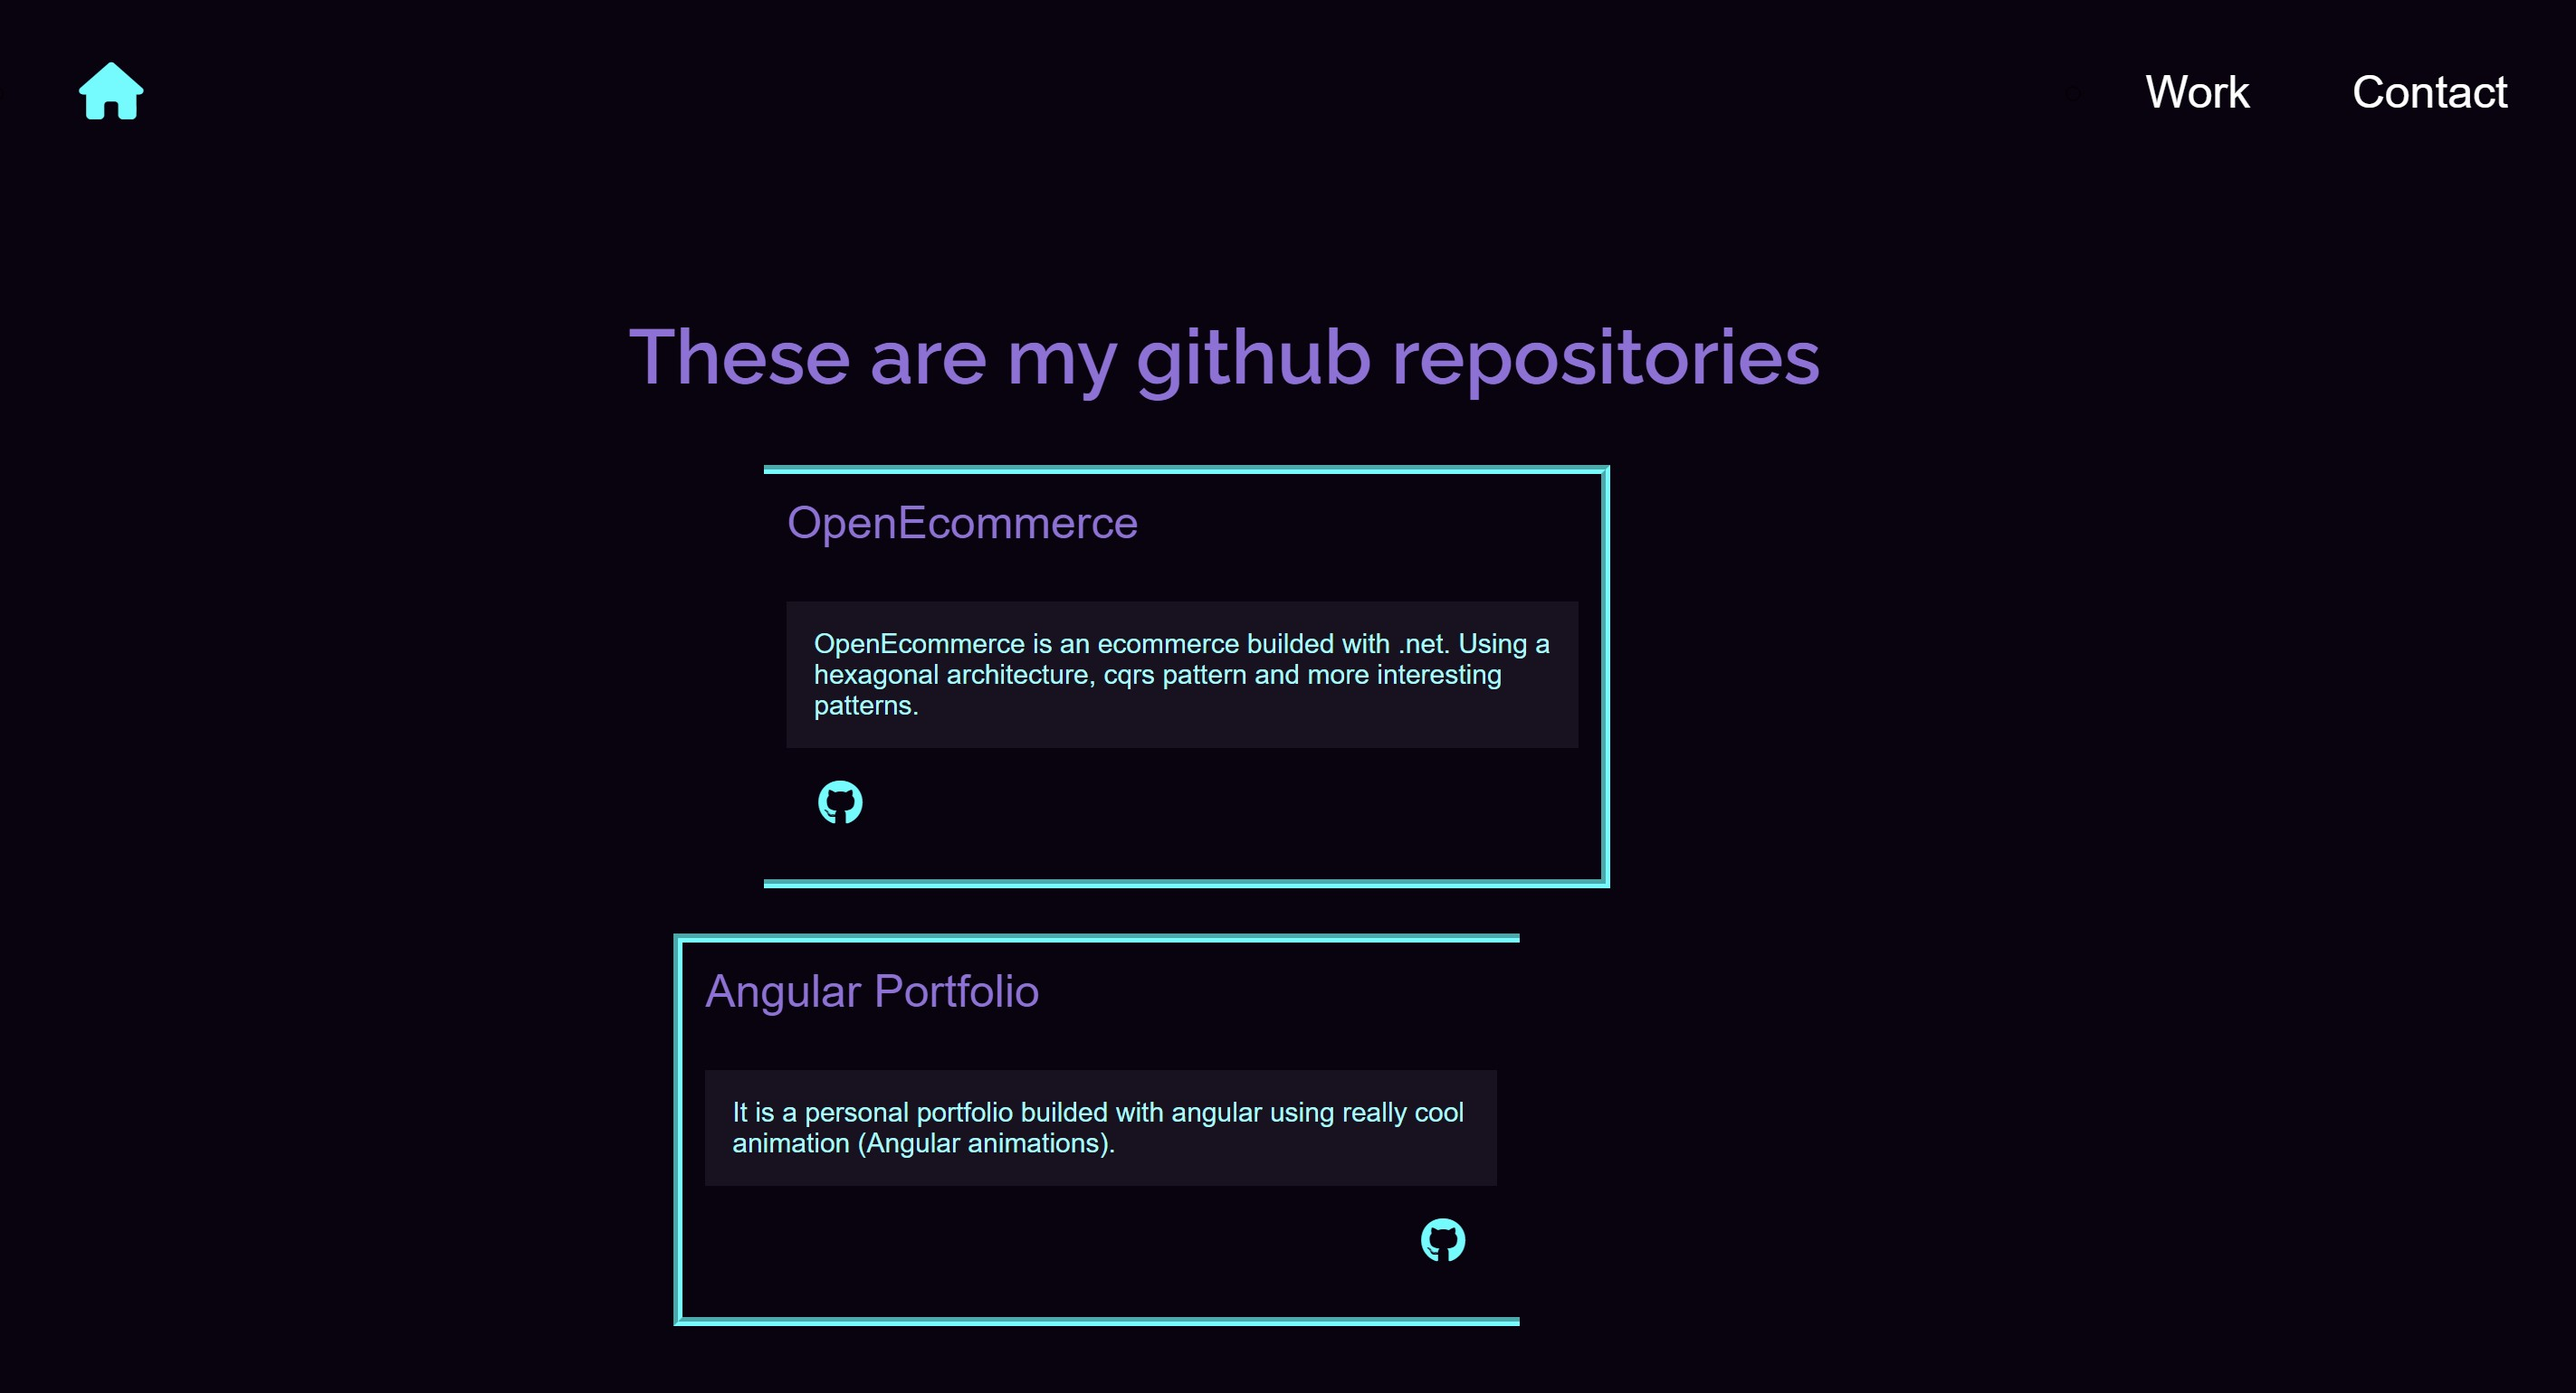
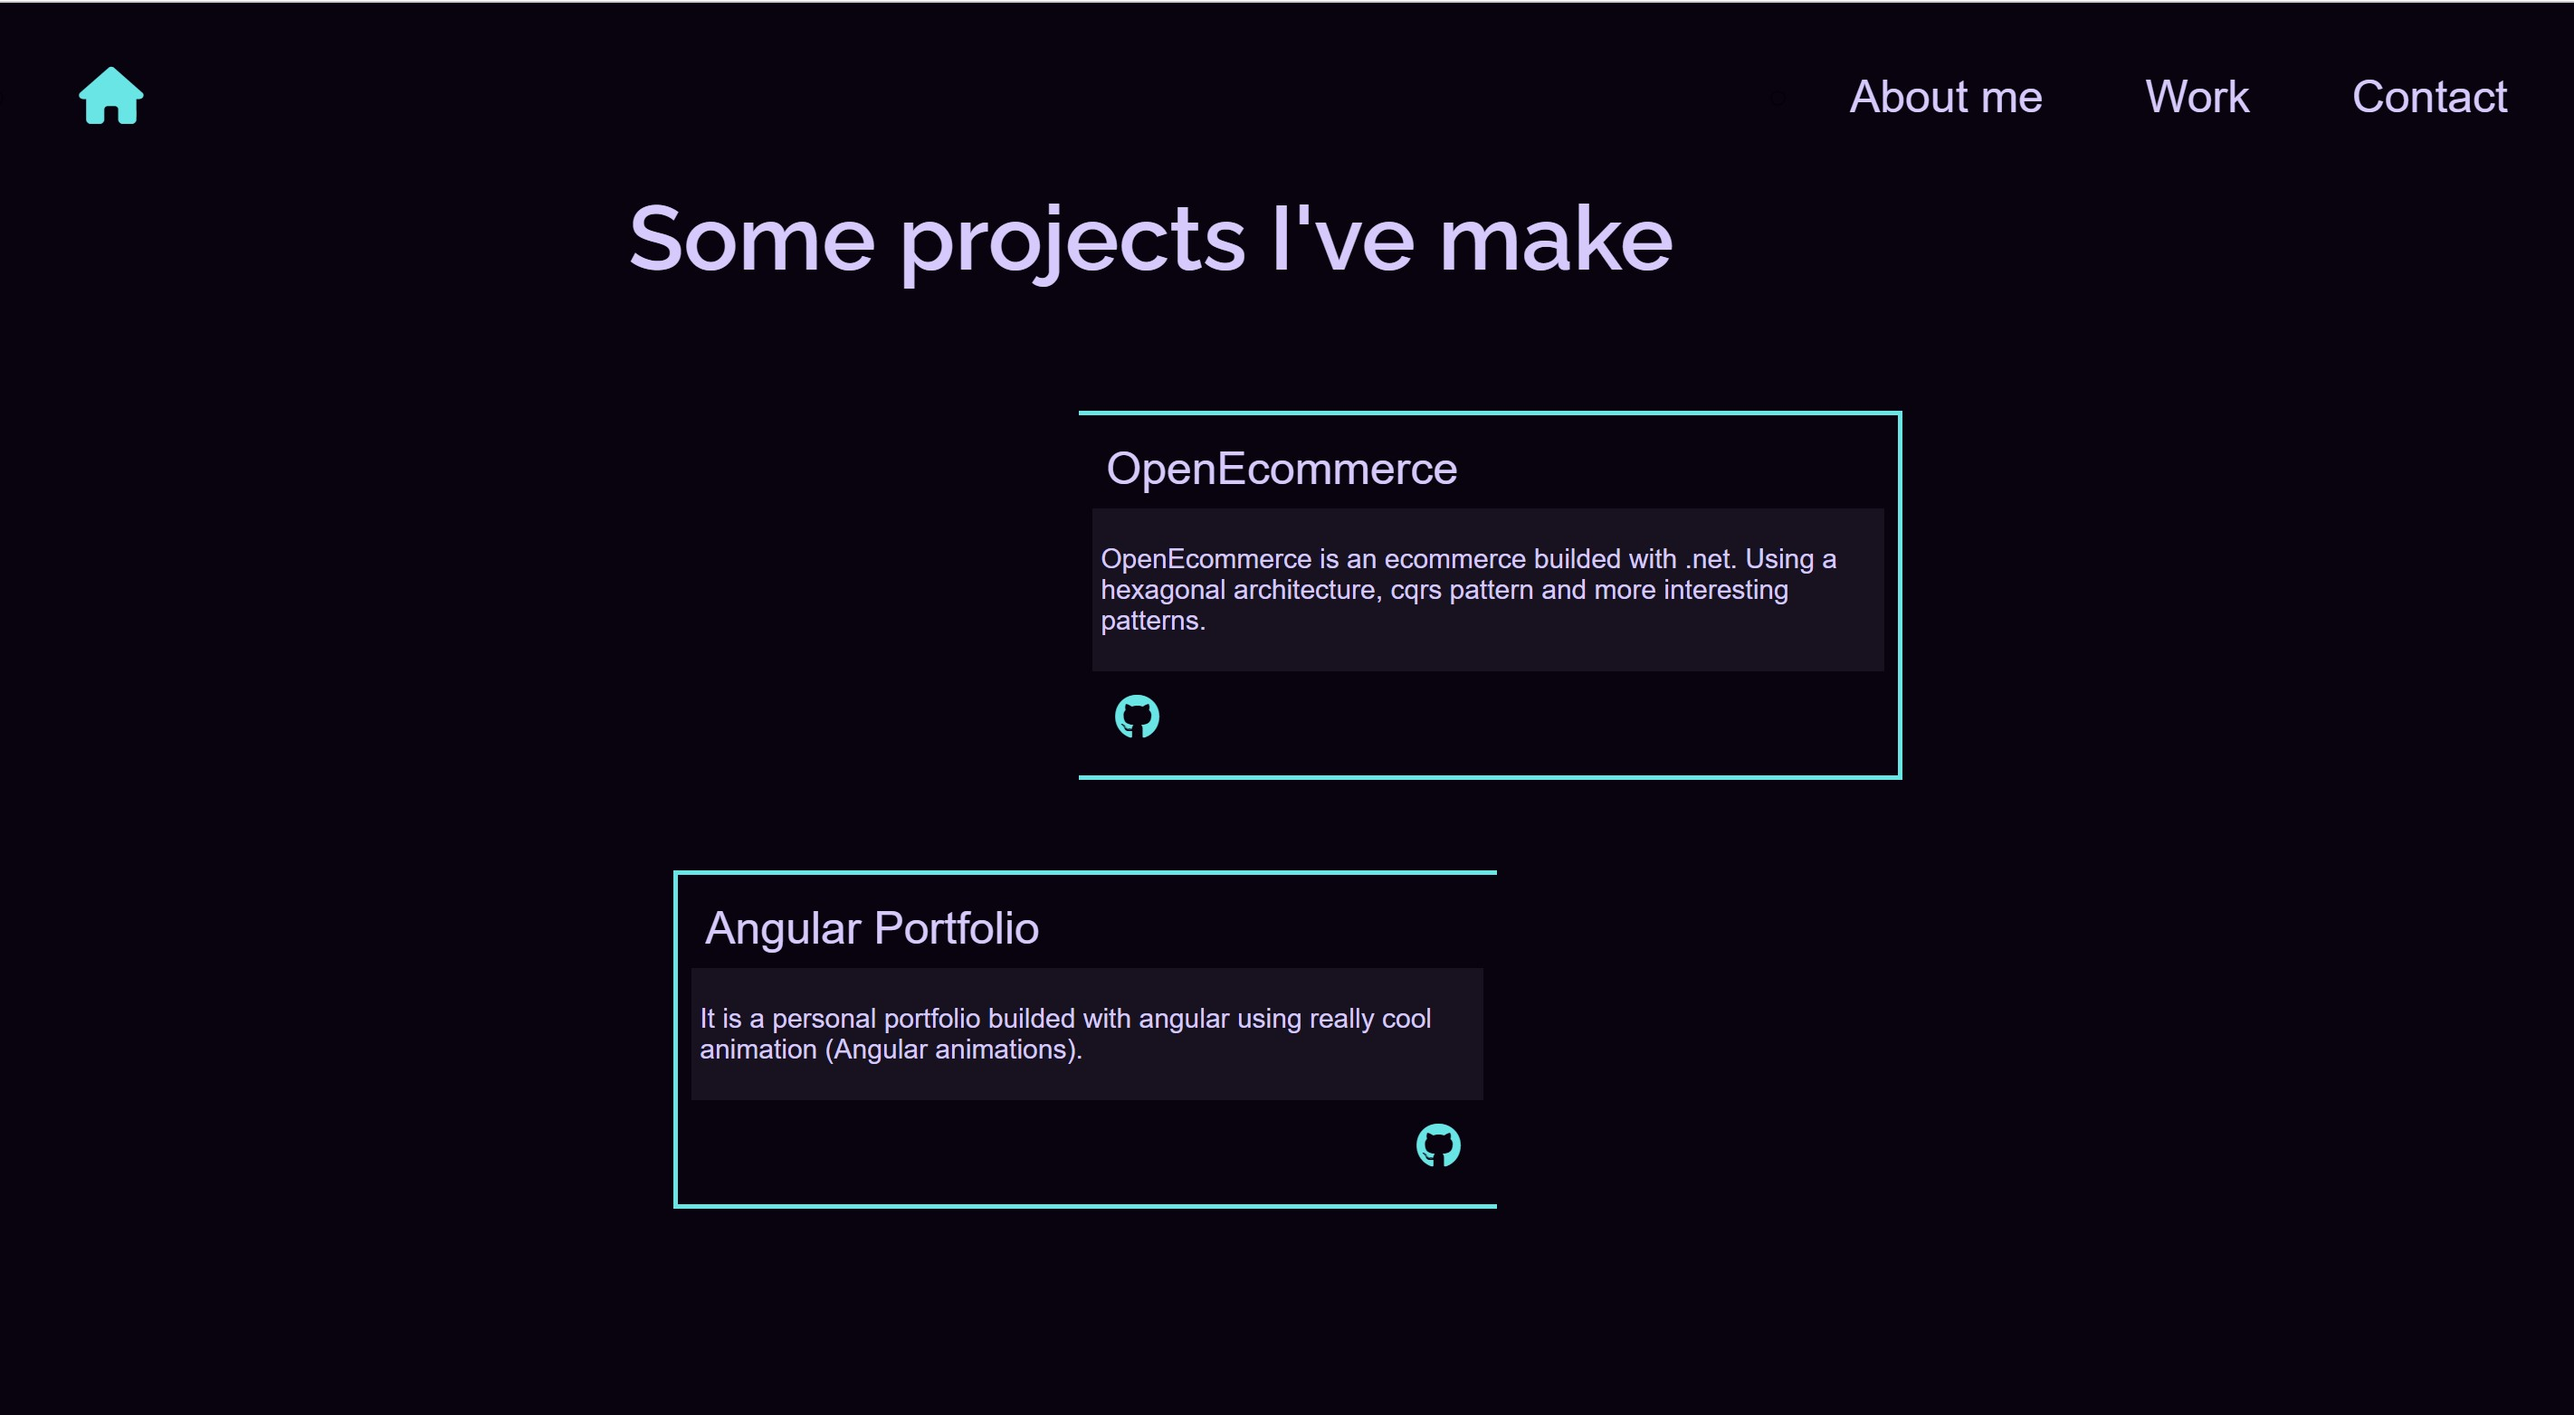
change demo images

diff --git a/css/styles.css b/css/styles.css
@@ -18,7 +18,8 @@ p {
   color: var(--default-font-color);
   font-family: var(--default-font-family);
   max-width: 650px;
-
+  margin-top: 0.5em;
+  margin-bottom: 0.5em;
 }
 
 h1,
